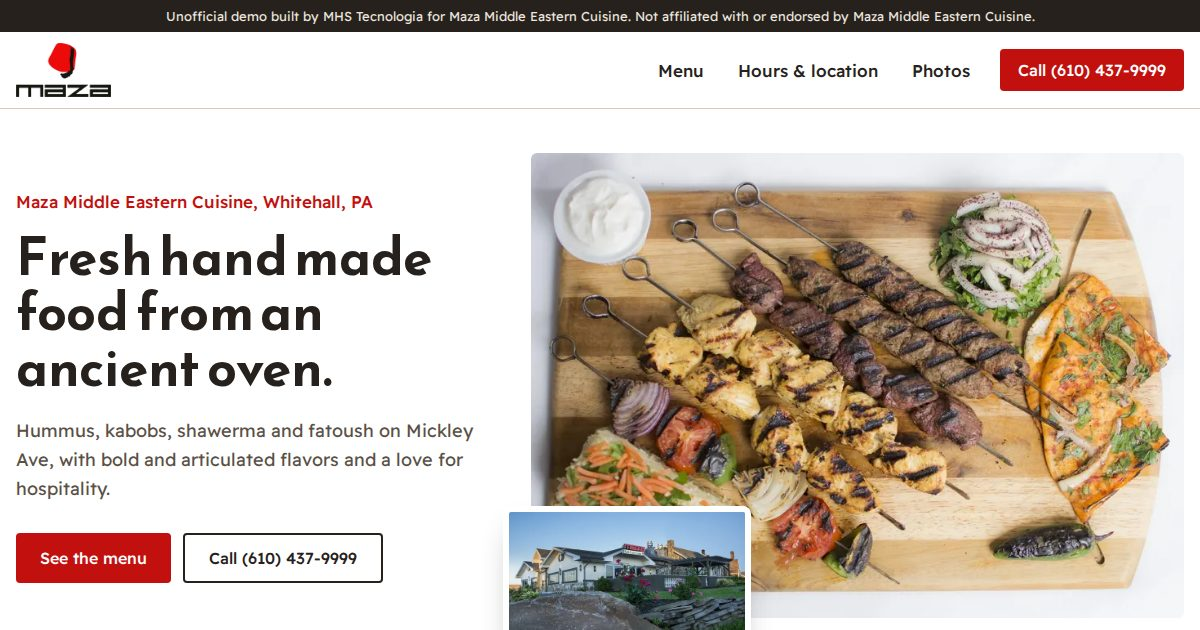
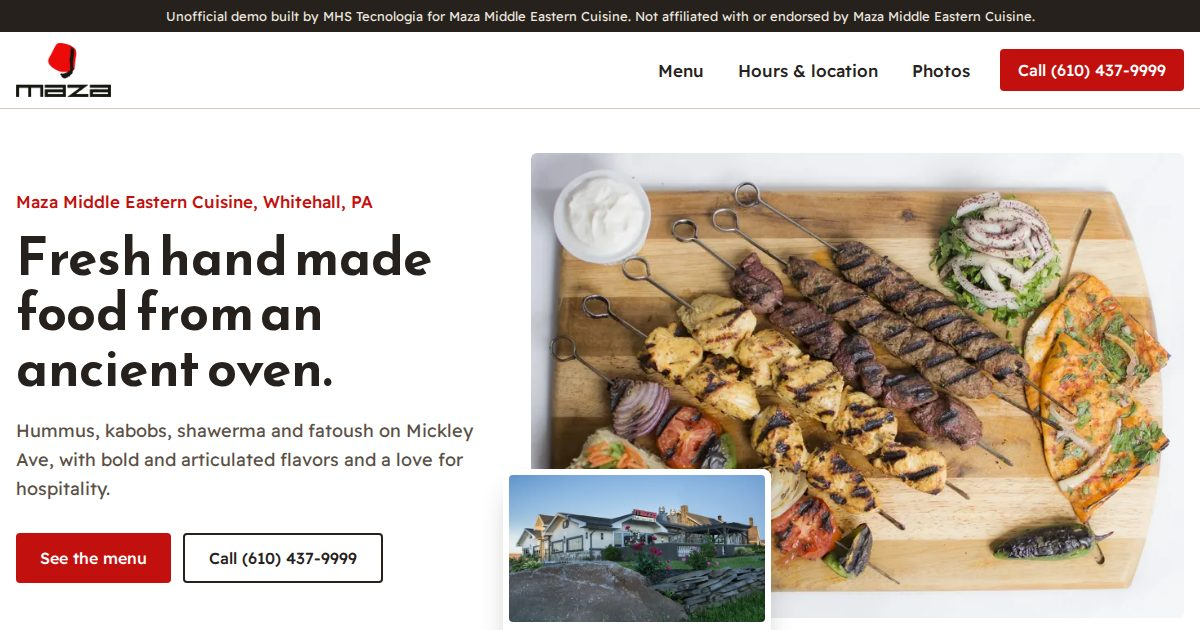
Previews: 113 ativos

Changed region(s): [[0.4008, 0.7238, 0.6475, 1.0]]

diff --git a/maza-whitehall-pa/photos.html b/maza-whitehall-pa/photos.html
@@ -63,7 +63,7 @@ figure{margin:0}
 .btn-line:hover{background:var(--ink);color:#fff}
 
 /* hero */
-.hero{padding:44px 0 80px}
+.hero{padding:44px 0 92px}
 .hero-in{display:grid;grid-template-columns:minmax(0,5fr) minmax(0,7fr);gap:48px;align-items:center}
 .kicker{color:var(--fez);font-weight:500;margin-bottom:14px}
 h1{font-size:clamp(2.5rem,4.4vw,4.1rem);max-width:13ch}
@@ -71,7 +71,9 @@ h1{font-size:clamp(2.5rem,4.4vw,4.1rem);max-width:13ch}
 .actions{display:flex;flex-wrap:wrap;gap:12px;margin-top:30px}
 .hero-photo{position:relative}
 .hero-photo img{width:100%;border-radius:6px}
-.hero-photo .inset{position:absolute;left:-28px;bottom:-36px;width:38%;border:6px solid var(--paper);border-radius:8px;box-shadow:0 14px 30px -14px rgba(38,33,28,.45)}
+.hero-photo .inset{position:absolute;left:-28px;bottom:-44px;width:41%;background:var(--paper);padding:6px 6px 0;border-radius:8px;box-shadow:0 14px 30px -14px rgba(38,33,28,.45)}
+.hero-photo .inset img{border-radius:4px}
+.inset-label{display:block;font-weight:500;font-size:.9375rem;padding:7px 4px 9px}
 
 /* the week (signature) */
 .dusk{background:var(--sand);color:var(--ink);padding:76px 0}
@@ -81,7 +83,8 @@ h1{font-size:clamp(2.5rem,4.4vw,4.1rem);max-width:13ch}
 .dusk-photo img{border-radius:6px;width:100%}
 .dusk-photo figcaption{font-size:.875rem;color:var(--muted);margin-top:10px}
 .week{margin-top:34px}
-.status{text-wrap:balance;font:700 1.375rem/1.3 var(--k);color:var(--ink);min-height:1.8em;margin-bottom:14px}
+.status{text-wrap:balance;font:700 1.375rem/1.3 var(--k);color:var(--ink);min-height:1.8em;margin-bottom:12px}
+.week-call{margin:0 0 24px}
 .week.open .status{color:var(--fez-d)}
 .axis,.day{display:grid;grid-template-columns:7.5rem minmax(0,1fr) 9.5rem;gap:20px;align-items:center}
 .ticks{position:relative;height:20px;font-size:.75rem;color:var(--muted)}
@@ -107,6 +110,18 @@ h1{font-size:clamp(2.5rem,4.4vw,4.1rem);max-width:13ch}
 }
 @keyframes grow{from{transform:scaleX(0)}}
 @keyframes fade{from{opacity:0}}
+
+/* the dishes named Maza */
+.house{background:var(--ink);color:#f3ece2;padding:76px 0}
+.house h2{font-size:clamp(2rem,3.6vw,3rem);color:#fff}
+.house .sub{color:#cbbfae}
+.house-list{list-style:none;margin:34px 0 0;padding:0}
+.house-list li{display:grid;grid-template-columns:minmax(0,5fr) minmax(0,5fr) 6rem;gap:32px;align-items:baseline;padding:22px 0;border-top:1px solid rgba(255,255,255,.16)}
+.hn{font:700 clamp(1.8rem,3.2vw,2.75rem)/1.1 var(--k);color:#fff}
+.hm{color:var(--sand)}
+.hd{color:#ddd3c6}
+.hs{display:block;font-size:.875rem;color:#b3a591;margin-top:4px}
+.hp{font:700 1.375rem/1.2 var(--k);color:#fff;text-align:right;font-variant-numeric:tabular-nums}
 
 /* menu lists */
 .items{list-style:none;margin:0;padding:0}
@@ -207,6 +222,10 @@ h1{font-size:clamp(2.5rem,4.4vw,4.1rem);max-width:13ch}
   .actions .btn{padding:0 10px;min-height:48px}
   .hero-photo{margin-top:22px}
   .dusk{padding:52px 0}
+  .house{padding:52px 0}
+  .house-list li{grid-template-columns:minmax(0,1fr) auto;gap:6px 16px;padding:18px 0}
+  .hd{grid-column:1/-1;grid-row:2}
+  .week-call{width:100%}
   .dusk-in{display:block}
   .dusk-photo{margin-top:36px}
   .axis,.day{grid-template-columns:minmax(0,1fr) auto;gap:6px 12px}
@@ -254,7 +273,7 @@ h1{font-size:clamp(2.5rem,4.4vw,4.1rem);max-width:13ch}
   <h1>Photos</h1>
   <p class="sub">The building, the patio and plates from the kitchen, all from Maza’s own gallery.</p>
 </div>
-<div class="wrap gallery"><section class="gsec" aria-label="The place"><h2>The place</h2><div class="grid place"><figure class="g"><img src="img/outside-600.webp" srcset="img/outside-600.webp 600w, img/outside-800.webp 800w, img/outside-1400.webp 1400w, img/outside-1600.webp 1600w" sizes="(max-width: 760px) calc(100vw - 32px), 770px" width="1600" height="917" alt="The Maza building on Mickley Ave, with the red Maza sign" loading="lazy" decoding="async"><figcaption>Mickley Ave, Whitehall</figcaption></figure><figure class="g tall"><img src="img/patio-440.webp" srcset="img/patio-440.webp 440w, img/patio-660.webp 660w, img/patio-880.webp 880w" sizes="(max-width: 760px) calc(100vw - 32px), 440px" width="880" height="1280" alt="The patio under the pergola at dusk, tables beside the stone wall" loading="lazy" decoding="async"><figcaption>The patio</figcaption></figure></div></section><section class="gsec" aria-label="From the kitchen"><h2>From the kitchen</h2><div class="grid"><figure class="g"><img src="img/hummus-600.webp" srcset="img/hummus-600.webp 600w, img/hummus-800.webp 800w, img/hummus-1200.webp 1200w" sizes="(max-width: 760px) calc(100vw - 32px), 604px" width="1200" height="1005" alt="A bowl of hummus with whole chickpeas, olive oil, lemon and an olive" loading="lazy" decoding="async"><figcaption>Hummus</figcaption></figure><figure class="g"><img src="img/chicken-fattoush-600.webp" srcset="img/chicken-fattoush-600.webp 600w, img/chicken-fattoush-800.webp 800w, img/chicken-fattoush-1200.webp 1200w" sizes="(max-width: 760px) calc(100vw - 32px), 604px" width="1200" height="991" alt="Grilled chicken over salad with pita chips" loading="lazy" decoding="async"><figcaption>Chicken Fatoush</figcaption></figure><figure class="g"><img src="img/tabouleh-600.webp" srcset="img/tabouleh-600.webp 600w, img/tabouleh-800.webp 800w, img/tabouleh-1200.webp 1200w" sizes="(max-width: 760px) calc(100vw - 32px), 604px" width="1200" height="1031" alt="Tabouleh on romaine leaves, seen from above" loading="lazy" decoding="async"><figcaption>Tabouleh</figcaption></figure><figure class="g"><img src="img/wrap-600.webp" srcset="img/wrap-600.webp 600w, img/wrap-800.webp 800w, img/wrap-1200.webp 1200w" sizes="(max-width: 760px) calc(100vw - 32px), 604px" width="1200" height="795" alt="A grilled wrap, cut open" loading="lazy" decoding="async"></figure><figure class="g"><img src="img/dip-600.webp" srcset="img/dip-600.webp 600w, img/dip-800.webp 800w, img/dip-1200.webp 1200w" sizes="(max-width: 760px) calc(100vw - 32px), 604px" width="1200" height="1011" alt="A dip with chopped tomato, lemon and an olive" loading="lazy" decoding="async"></figure><figure class="g"><img src="img/fried-600.webp" srcset="img/fried-600.webp 600w, img/fried-800.webp 800w, img/fried-1200.webp 1200w" sizes="(max-width: 760px) calc(100vw - 32px), 604px" width="1200" height="1097" alt="Four fried, round appetizers on a white plate" loading="lazy" decoding="async"></figure><figure class="g"><img src="img/fattoush-600.webp" srcset="img/fattoush-600.webp 600w, img/fattoush-800.webp 800w, img/fattoush-1200.webp 1200w" sizes="(max-width: 760px) calc(100vw - 32px), 604px" width="1200" height="625" alt="A salad of greens, tomato and pita chips" loading="lazy" decoding="async"></figure><figure class="g"><img src="img/grill-plate-600.webp" srcset="img/grill-plate-600.webp 600w, img/grill-plate-800.webp 800w, img/grill-plate-1200.webp 1200w" sizes="(max-width: 760px) calc(100vw - 32px), 604px" width="1200" height="644" alt="Grilled flatbread, grilled meat and a grilled tomato and pepper skewer" loading="lazy" decoding="async"></figure><figure class="g"><img src="img/wrap-side-600.webp" srcset="img/wrap-side-600.webp 600w, img/wrap-side-800.webp 800w, img/wrap-side-1200.webp 1200w" sizes="(max-width: 760px) calc(100vw - 32px), 604px" width="1200" height="900" alt="A wrap with a cup of chickpeas on the side" loading="lazy" decoding="async"></figure></div></section></div>
+<div class="wrap gallery"><section class="gsec" aria-label="The place"><h2>The place</h2><div class="grid place"><figure class="g"><img src="img/outside-600.webp" srcset="img/outside-600.webp 600w, img/outside-800.webp 800w, img/outside-1400.webp 1400w, img/outside-1600.webp 1600w" sizes="(max-width: 760px) calc(100vw - 32px), 770px" width="1600" height="917" alt="The Maza building on Mickley Ave, with the red Maza sign" loading="lazy" decoding="async"><figcaption>Mickley Ave, Whitehall</figcaption></figure><figure class="g tall"><img src="img/patio-440.webp" srcset="img/patio-440.webp 440w, img/patio-660.webp 660w, img/patio-880.webp 880w" sizes="(max-width: 760px) calc(100vw - 32px), 440px" width="880" height="1280" alt="The patio under the pergola at dusk, tables beside the stone wall" loading="lazy" decoding="async"><figcaption>The patio</figcaption></figure></div></section><section class="gsec" aria-label="From the kitchen"><h2>From the kitchen</h2><div class="grid"><figure class="g"><img src="img/hummus-600.webp" srcset="img/hummus-600.webp 600w, img/hummus-800.webp 800w, img/hummus-1200.webp 1200w" sizes="(max-width: 760px) calc(100vw - 32px), 604px" width="1200" height="1005" alt="A bowl of hummus with whole chickpeas, olive oil, lemon and an olive" loading="lazy" decoding="async"></figure><figure class="g"><img src="img/chicken-fattoush-600.webp" srcset="img/chicken-fattoush-600.webp 600w, img/chicken-fattoush-800.webp 800w, img/chicken-fattoush-1200.webp 1200w" sizes="(max-width: 760px) calc(100vw - 32px), 604px" width="1200" height="991" alt="Grilled chicken over salad with pita chips" loading="lazy" decoding="async"></figure><figure class="g"><img src="img/tabouleh-600.webp" srcset="img/tabouleh-600.webp 600w, img/tabouleh-800.webp 800w, img/tabouleh-1200.webp 1200w" sizes="(max-width: 760px) calc(100vw - 32px), 604px" width="1200" height="1031" alt="Tabouleh on romaine leaves, seen from above" loading="lazy" decoding="async"></figure><figure class="g"><img src="img/wrap-600.webp" srcset="img/wrap-600.webp 600w, img/wrap-800.webp 800w, img/wrap-1200.webp 1200w" sizes="(max-width: 760px) calc(100vw - 32px), 604px" width="1200" height="795" alt="A grilled wrap, cut open" loading="lazy" decoding="async"></figure><figure class="g"><img src="img/dip-600.webp" srcset="img/dip-600.webp 600w, img/dip-800.webp 800w, img/dip-1200.webp 1200w" sizes="(max-width: 760px) calc(100vw - 32px), 604px" width="1200" height="1011" alt="A dip with chopped tomato, lemon and an olive" loading="lazy" decoding="async"></figure><figure class="g"><img src="img/fried-600.webp" srcset="img/fried-600.webp 600w, img/fried-800.webp 800w, img/fried-1200.webp 1200w" sizes="(max-width: 760px) calc(100vw - 32px), 604px" width="1200" height="1097" alt="Four fried, round appetizers on a white plate" loading="lazy" decoding="async"></figure><figure class="g"><img src="img/fattoush-600.webp" srcset="img/fattoush-600.webp 600w, img/fattoush-800.webp 800w, img/fattoush-1200.webp 1200w" sizes="(max-width: 760px) calc(100vw - 32px), 604px" width="1200" height="625" alt="A salad of greens, tomato and pita chips" loading="lazy" decoding="async"></figure><figure class="g"><img src="img/grill-plate-600.webp" srcset="img/grill-plate-600.webp 600w, img/grill-plate-800.webp 800w, img/grill-plate-1200.webp 1200w" sizes="(max-width: 760px) calc(100vw - 32px), 604px" width="1200" height="644" alt="Grilled flatbread, grilled meat and a grilled tomato and pepper skewer" loading="lazy" decoding="async"></figure><figure class="g"><img src="img/wrap-side-600.webp" srcset="img/wrap-side-600.webp 600w, img/wrap-side-800.webp 800w, img/wrap-side-1200.webp 1200w" sizes="(max-width: 760px) calc(100vw - 32px), 604px" width="1200" height="900" alt="A wrap with a cup of chickpeas on the side" loading="lazy" decoding="async"></figure></div></section></div>
 </main>
 <footer class="foot">
   <div class="wrap foot-in">

diff --git a/maza-whitehall-pa/index.html b/maza-whitehall-pa/index.html
@@ -65,7 +65,7 @@ figure{margin:0}
 .btn-line:hover{background:var(--ink);color:#fff}
 
 /* hero */
-.hero{padding:44px 0 80px}
+.hero{padding:44px 0 92px}
 .hero-in{display:grid;grid-template-columns:minmax(0,5fr) minmax(0,7fr);gap:48px;align-items:center}
 .kicker{color:var(--fez);font-weight:500;margin-bottom:14px}
 h1{font-size:clamp(2.5rem,4.4vw,4.1rem);max-width:13ch}
@@ -73,7 +73,9 @@ h1{font-size:clamp(2.5rem,4.4vw,4.1rem);max-width:13ch}
 .actions{display:flex;flex-wrap:wrap;gap:12px;margin-top:30px}
 .hero-photo{position:relative}
 .hero-photo img{width:100%;border-radius:6px}
-.hero-photo .inset{position:absolute;left:-28px;bottom:-36px;width:38%;border:6px solid var(--paper);border-radius:8px;box-shadow:0 14px 30px -14px rgba(38,33,28,.45)}
+.hero-photo .inset{position:absolute;left:-28px;bottom:-44px;width:41%;background:var(--paper);padding:6px 6px 0;border-radius:8px;box-shadow:0 14px 30px -14px rgba(38,33,28,.45)}
+.hero-photo .inset img{border-radius:4px}
+.inset-label{display:block;font-weight:500;font-size:.9375rem;padding:7px 4px 9px}
 
 /* the week (signature) */
 .dusk{background:var(--sand);color:var(--ink);padding:76px 0}
@@ -83,7 +85,8 @@ h1{font-size:clamp(2.5rem,4.4vw,4.1rem);max-width:13ch}
 .dusk-photo img{border-radius:6px;width:100%}
 .dusk-photo figcaption{font-size:.875rem;color:var(--muted);margin-top:10px}
 .week{margin-top:34px}
-.status{text-wrap:balance;font:700 1.375rem/1.3 var(--k);color:var(--ink);min-height:1.8em;margin-bottom:14px}
+.status{text-wrap:balance;font:700 1.375rem/1.3 var(--k);color:var(--ink);min-height:1.8em;margin-bottom:12px}
+.week-call{margin:0 0 24px}
 .week.open .status{color:var(--fez-d)}
 .axis,.day{display:grid;grid-template-columns:7.5rem minmax(0,1fr) 9.5rem;gap:20px;align-items:center}
 .ticks{position:relative;height:20px;font-size:.75rem;color:var(--muted)}
@@ -109,6 +112,18 @@ h1{font-size:clamp(2.5rem,4.4vw,4.1rem);max-width:13ch}
 }
 @keyframes grow{from{transform:scaleX(0)}}
 @keyframes fade{from{opacity:0}}
+
+/* the dishes named Maza */
+.house{background:var(--ink);color:#f3ece2;padding:76px 0}
+.house h2{font-size:clamp(2rem,3.6vw,3rem);color:#fff}
+.house .sub{color:#cbbfae}
+.house-list{list-style:none;margin:34px 0 0;padding:0}
+.house-list li{display:grid;grid-template-columns:minmax(0,5fr) minmax(0,5fr) 6rem;gap:32px;align-items:baseline;padding:22px 0;border-top:1px solid rgba(255,255,255,.16)}
+.hn{font:700 clamp(1.8rem,3.2vw,2.75rem)/1.1 var(--k);color:#fff}
+.hm{color:var(--sand)}
+.hd{color:#ddd3c6}
+.hs{display:block;font-size:.875rem;color:#b3a591;margin-top:4px}
+.hp{font:700 1.375rem/1.2 var(--k);color:#fff;text-align:right;font-variant-numeric:tabular-nums}
 
 /* menu lists */
 .items{list-style:none;margin:0;padding:0}
@@ -209,6 +224,10 @@ h1{font-size:clamp(2.5rem,4.4vw,4.1rem);max-width:13ch}
   .actions .btn{padding:0 10px;min-height:48px}
   .hero-photo{margin-top:22px}
   .dusk{padding:52px 0}
+  .house{padding:52px 0}
+  .house-list li{grid-template-columns:minmax(0,1fr) auto;gap:6px 16px;padding:18px 0}
+  .hd{grid-column:1/-1;grid-row:2}
+  .week-call{width:100%}
   .dusk-in{display:block}
   .dusk-photo{margin-top:36px}
   .axis,.day{grid-template-columns:minmax(0,1fr) auto;gap:6px 12px}
@@ -275,8 +294,16 @@ h1{font-size:clamp(2.5rem,4.4vw,4.1rem);max-width:13ch}
         <source media="(max-width: 760px)" srcset="img/board-m-480.webp 480w, img/board-m-640.webp 640w, img/board-m-800.webp 800w" sizes="calc(100vw - 32px)" width="800" height="600">
         <img src="img/board-800.webp" srcset="img/board-800.webp 800w, img/board-1200.webp 1200w, img/board-1600.webp 1600w" sizes="min(56vw, 700px)" width="1600" height="1138" alt="Grilled skewers of chicken, kufta and beef on a wooden board with rice, grilled vegetables and flatbread" fetchpriority="high">
       </picture>
-      <img src="img/outside-600.webp" srcset="img/outside-600.webp 600w" sizes="260px" width="1400" height="802" alt="The Maza building on Mickley Ave, with its red sign" loading="lazy" decoding="async" class='inset'>
+      <span class="inset"><img src="img/outside-600.webp" srcset="img/outside-600.webp 600w" sizes="300px" width="1400" height="802" alt="The Maza building on Mickley Ave, with its red sign" loading="lazy" decoding="async"><span class="inset-label">On Mickley Ave</span></span>
     </figure>
+  </div>
+</section>
+
+<section class="house" aria-labelledby="house-h">
+  <div class="wrap">
+    <h2 id="house-h">Five dishes carry the house name</h2>
+    <p class="sub">Straight from Maza’s menu, with their prices.</p>
+    <ol class="house-list"><li><span class="hn"><span class="hm">Maza</span> Lebne</span><span class="hd">A yogurt spread mixed with onions, walnuts &amp; cracked wheat.<span class="hs"> Cold appetizers</span></span><span class="hp">$9.99</span></li><li><span class="hn"><span class="hm">Maza</span> Sampler</span><span class="hd">Hummus, baba ghanouj, burak and sambousik.<span class="hs"> Cold appetizers</span></span><span class="hp">$20.99</span></li><li><span class="hn"><span class="hm">Maza</span> Special Chicken</span><span class="hd">Chicken, French fries, coleslaw, ketchup &amp; pickles.<span class="hs"> Sandwiches</span></span><span class="hp">$14.99</span></li><li><span class="hn"><span class="hm">Maza</span> Vegetarian</span><span class="hd">Fatoush &amp; hummus.<span class="hs"> Sandwiches</span></span><span class="hp">$9.99</span></li><li><span class="hn"><span class="hm">Maza</span> From the Grill</span><span class="hd">Chicken, kufta and beef kabob.<span class="hs"> Entrees</span></span><span class="hp">$42.99</span></li></ol>
   </div>
 </section>
 
@@ -287,6 +314,7 @@ h1{font-size:clamp(2.5rem,4.4vw,4.1rem);max-width:13ch}
       <p class="sub">Till 11 most nights, 11:30 on Fridays and midnight on Saturdays. Closed on Tuesdays.</p>
       <div class="week" aria-labelledby="week-h">
   <p class="status" aria-live="polite"></p>
+  <a class="btn btn-red week-call" href="tel:+16104379999">Call (610) 437-9999</a>
   <div class="axis" aria-hidden="true"><span></span><span class="ticks"><span style="left:0.000%">11 am</span><span style="left:23.077%">2 pm</span><span style="left:46.154%">5 pm</span><span style="left:69.231%">8 pm</span><span style="left:100.000%">midnight</span></span><span></span></div>
   <ol class="days"><li class="day" data-d="0" data-o=11 data-c=23><span class="dn">Monday</span><span class="track" aria-hidden="true"><span class="fill" style="left:0.000%;width:92.308%"></span><span class="now"></span></span><span class="tm">11 am – 11 pm</span></li><li class="day closed" data-d="1"><span class="dn">Tuesday</span><span class="track" aria-hidden="true"><span class="shut"></span><span class="now"></span></span><span class="tm">Closed</span></li><li class="day" data-d="2" data-o=11 data-c=23><span class="dn">Wednesday</span><span class="track" aria-hidden="true"><span class="fill" style="left:0.000%;width:92.308%"></span><span class="now"></span></span><span class="tm">11 am – 11 pm</span></li><li class="day" data-d="3" data-o=11 data-c=23><span class="dn">Thursday</span><span class="track" aria-hidden="true"><span class="fill" style="left:0.000%;width:92.308%"></span><span class="now"></span></span><span class="tm">11 am – 11 pm</span></li><li class="day" data-d="4" data-o=11 data-c=23.5><span class="dn">Friday</span><span class="track" aria-hidden="true"><span class="fill" style="left:0.000%;width:96.154%"></span><span class="now"></span></span><span class="tm">11 am – 11:30 pm</span></li><li class="day" data-d="5" data-o=12 data-c=24><span class="dn">Saturday</span><span class="track" aria-hidden="true"><span class="fill" style="left:7.692%;width:92.308%"></span><span class="now"></span></span><span class="tm">Noon – midnight</span></li><li class="day" data-d="6" data-o=12 data-c=23><span class="dn">Sunday</span><span class="track" aria-hidden="true"><span class="fill" style="left:7.692%;width:84.615%"></span><span class="now"></span></span><span class="tm">Noon – 11 pm</span></li></ol>
   <p class="week-note">Going by the hours posted on Maza’s website, in Whitehall time.</p>

diff --git a/maza-whitehall-pa/visit.html b/maza-whitehall-pa/visit.html
@@ -63,7 +63,7 @@ figure{margin:0}
 .btn-line:hover{background:var(--ink);color:#fff}
 
 /* hero */
-.hero{padding:44px 0 80px}
+.hero{padding:44px 0 92px}
 .hero-in{display:grid;grid-template-columns:minmax(0,5fr) minmax(0,7fr);gap:48px;align-items:center}
 .kicker{color:var(--fez);font-weight:500;margin-bottom:14px}
 h1{font-size:clamp(2.5rem,4.4vw,4.1rem);max-width:13ch}
@@ -71,7 +71,9 @@ h1{font-size:clamp(2.5rem,4.4vw,4.1rem);max-width:13ch}
 .actions{display:flex;flex-wrap:wrap;gap:12px;margin-top:30px}
 .hero-photo{position:relative}
 .hero-photo img{width:100%;border-radius:6px}
-.hero-photo .inset{position:absolute;left:-28px;bottom:-36px;width:38%;border:6px solid var(--paper);border-radius:8px;box-shadow:0 14px 30px -14px rgba(38,33,28,.45)}
+.hero-photo .inset{position:absolute;left:-28px;bottom:-44px;width:41%;background:var(--paper);padding:6px 6px 0;border-radius:8px;box-shadow:0 14px 30px -14px rgba(38,33,28,.45)}
+.hero-photo .inset img{border-radius:4px}
+.inset-label{display:block;font-weight:500;font-size:.9375rem;padding:7px 4px 9px}
 
 /* the week (signature) */
 .dusk{background:var(--sand);color:var(--ink);padding:76px 0}
@@ -81,7 +83,8 @@ h1{font-size:clamp(2.5rem,4.4vw,4.1rem);max-width:13ch}
 .dusk-photo img{border-radius:6px;width:100%}
 .dusk-photo figcaption{font-size:.875rem;color:var(--muted);margin-top:10px}
 .week{margin-top:34px}
-.status{text-wrap:balance;font:700 1.375rem/1.3 var(--k);color:var(--ink);min-height:1.8em;margin-bottom:14px}
+.status{text-wrap:balance;font:700 1.375rem/1.3 var(--k);color:var(--ink);min-height:1.8em;margin-bottom:12px}
+.week-call{margin:0 0 24px}
 .week.open .status{color:var(--fez-d)}
 .axis,.day{display:grid;grid-template-columns:7.5rem minmax(0,1fr) 9.5rem;gap:20px;align-items:center}
 .ticks{position:relative;height:20px;font-size:.75rem;color:var(--muted)}
@@ -107,6 +110,18 @@ h1{font-size:clamp(2.5rem,4.4vw,4.1rem);max-width:13ch}
 }
 @keyframes grow{from{transform:scaleX(0)}}
 @keyframes fade{from{opacity:0}}
+
+/* the dishes named Maza */
+.house{background:var(--ink);color:#f3ece2;padding:76px 0}
+.house h2{font-size:clamp(2rem,3.6vw,3rem);color:#fff}
+.house .sub{color:#cbbfae}
+.house-list{list-style:none;margin:34px 0 0;padding:0}
+.house-list li{display:grid;grid-template-columns:minmax(0,5fr) minmax(0,5fr) 6rem;gap:32px;align-items:baseline;padding:22px 0;border-top:1px solid rgba(255,255,255,.16)}
+.hn{font:700 clamp(1.8rem,3.2vw,2.75rem)/1.1 var(--k);color:#fff}
+.hm{color:var(--sand)}
+.hd{color:#ddd3c6}
+.hs{display:block;font-size:.875rem;color:#b3a591;margin-top:4px}
+.hp{font:700 1.375rem/1.2 var(--k);color:#fff;text-align:right;font-variant-numeric:tabular-nums}
 
 /* menu lists */
 .items{list-style:none;margin:0;padding:0}
@@ -207,6 +222,10 @@ h1{font-size:clamp(2.5rem,4.4vw,4.1rem);max-width:13ch}
   .actions .btn{padding:0 10px;min-height:48px}
   .hero-photo{margin-top:22px}
   .dusk{padding:52px 0}
+  .house{padding:52px 0}
+  .house-list li{grid-template-columns:minmax(0,1fr) auto;gap:6px 16px;padding:18px 0}
+  .hd{grid-column:1/-1;grid-row:2}
+  .week-call{width:100%}
   .dusk-in{display:block}
   .dusk-photo{margin-top:36px}
   .axis,.day{grid-template-columns:minmax(0,1fr) auto;gap:6px 12px}
@@ -259,6 +278,7 @@ h1{font-size:clamp(2.5rem,4.4vw,4.1rem);max-width:13ch}
     <h2 id="wk-h">The week at Maza</h2>
     <div class="week" aria-labelledby="wk-h">
   <p class="status" aria-live="polite"></p>
+  <a class="btn btn-red week-call" href="tel:+16104379999">Call (610) 437-9999</a>
   <div class="axis" aria-hidden="true"><span></span><span class="ticks"><span style="left:0.000%">11 am</span><span style="left:23.077%">2 pm</span><span style="left:46.154%">5 pm</span><span style="left:69.231%">8 pm</span><span style="left:100.000%">midnight</span></span><span></span></div>
   <ol class="days"><li class="day" data-d="0" data-o=11 data-c=23><span class="dn">Monday</span><span class="track" aria-hidden="true"><span class="fill" style="left:0.000%;width:92.308%"></span><span class="now"></span></span><span class="tm">11 am – 11 pm</span></li><li class="day closed" data-d="1"><span class="dn">Tuesday</span><span class="track" aria-hidden="true"><span class="shut"></span><span class="now"></span></span><span class="tm">Closed</span></li><li class="day" data-d="2" data-o=11 data-c=23><span class="dn">Wednesday</span><span class="track" aria-hidden="true"><span class="fill" style="left:0.000%;width:92.308%"></span><span class="now"></span></span><span class="tm">11 am – 11 pm</span></li><li class="day" data-d="3" data-o=11 data-c=23><span class="dn">Thursday</span><span class="track" aria-hidden="true"><span class="fill" style="left:0.000%;width:92.308%"></span><span class="now"></span></span><span class="tm">11 am – 11 pm</span></li><li class="day" data-d="4" data-o=11 data-c=23.5><span class="dn">Friday</span><span class="track" aria-hidden="true"><span class="fill" style="left:0.000%;width:96.154%"></span><span class="now"></span></span><span class="tm">11 am – 11:30 pm</span></li><li class="day" data-d="5" data-o=12 data-c=24><span class="dn">Saturday</span><span class="track" aria-hidden="true"><span class="fill" style="left:7.692%;width:92.308%"></span><span class="now"></span></span><span class="tm">Noon – midnight</span></li><li class="day" data-d="6" data-o=12 data-c=23><span class="dn">Sunday</span><span class="track" aria-hidden="true"><span class="fill" style="left:7.692%;width:84.615%"></span><span class="now"></span></span><span class="tm">Noon – 11 pm</span></li></ol>
   <p class="week-note">Going by the hours posted on Maza’s website, in Whitehall time.</p>

diff --git a/maza-whitehall-pa/menu.html b/maza-whitehall-pa/menu.html
@@ -63,7 +63,7 @@ figure{margin:0}
 .btn-line:hover{background:var(--ink);color:#fff}
 
 /* hero */
-.hero{padding:44px 0 80px}
+.hero{padding:44px 0 92px}
 .hero-in{display:grid;grid-template-columns:minmax(0,5fr) minmax(0,7fr);gap:48px;align-items:center}
 .kicker{color:var(--fez);font-weight:500;margin-bottom:14px}
 h1{font-size:clamp(2.5rem,4.4vw,4.1rem);max-width:13ch}
@@ -71,7 +71,9 @@ h1{font-size:clamp(2.5rem,4.4vw,4.1rem);max-width:13ch}
 .actions{display:flex;flex-wrap:wrap;gap:12px;margin-top:30px}
 .hero-photo{position:relative}
 .hero-photo img{width:100%;border-radius:6px}
-.hero-photo .inset{position:absolute;left:-28px;bottom:-36px;width:38%;border:6px solid var(--paper);border-radius:8px;box-shadow:0 14px 30px -14px rgba(38,33,28,.45)}
+.hero-photo .inset{position:absolute;left:-28px;bottom:-44px;width:41%;background:var(--paper);padding:6px 6px 0;border-radius:8px;box-shadow:0 14px 30px -14px rgba(38,33,28,.45)}
+.hero-photo .inset img{border-radius:4px}
+.inset-label{display:block;font-weight:500;font-size:.9375rem;padding:7px 4px 9px}
 
 /* the week (signature) */
 .dusk{background:var(--sand);color:var(--ink);padding:76px 0}
@@ -81,7 +83,8 @@ h1{font-size:clamp(2.5rem,4.4vw,4.1rem);max-width:13ch}
 .dusk-photo img{border-radius:6px;width:100%}
 .dusk-photo figcaption{font-size:.875rem;color:var(--muted);margin-top:10px}
 .week{margin-top:34px}
-.status{text-wrap:balance;font:700 1.375rem/1.3 var(--k);color:var(--ink);min-height:1.8em;margin-bottom:14px}
+.status{text-wrap:balance;font:700 1.375rem/1.3 var(--k);color:var(--ink);min-height:1.8em;margin-bottom:12px}
+.week-call{margin:0 0 24px}
 .week.open .status{color:var(--fez-d)}
 .axis,.day{display:grid;grid-template-columns:7.5rem minmax(0,1fr) 9.5rem;gap:20px;align-items:center}
 .ticks{position:relative;height:20px;font-size:.75rem;color:var(--muted)}
@@ -107,6 +110,18 @@ h1{font-size:clamp(2.5rem,4.4vw,4.1rem);max-width:13ch}
 }
 @keyframes grow{from{transform:scaleX(0)}}
 @keyframes fade{from{opacity:0}}
+
+/* the dishes named Maza */
+.house{background:var(--ink);color:#f3ece2;padding:76px 0}
+.house h2{font-size:clamp(2rem,3.6vw,3rem);color:#fff}
+.house .sub{color:#cbbfae}
+.house-list{list-style:none;margin:34px 0 0;padding:0}
+.house-list li{display:grid;grid-template-columns:minmax(0,5fr) minmax(0,5fr) 6rem;gap:32px;align-items:baseline;padding:22px 0;border-top:1px solid rgba(255,255,255,.16)}
+.hn{font:700 clamp(1.8rem,3.2vw,2.75rem)/1.1 var(--k);color:#fff}
+.hm{color:var(--sand)}
+.hd{color:#ddd3c6}
+.hs{display:block;font-size:.875rem;color:#b3a591;margin-top:4px}
+.hp{font:700 1.375rem/1.2 var(--k);color:#fff;text-align:right;font-variant-numeric:tabular-nums}
 
 /* menu lists */
 .items{list-style:none;margin:0;padding:0}
@@ -207,6 +222,10 @@ h1{font-size:clamp(2.5rem,4.4vw,4.1rem);max-width:13ch}
   .actions .btn{padding:0 10px;min-height:48px}
   .hero-photo{margin-top:22px}
   .dusk{padding:52px 0}
+  .house{padding:52px 0}
+  .house-list li{grid-template-columns:minmax(0,1fr) auto;gap:6px 16px;padding:18px 0}
+  .hd{grid-column:1/-1;grid-row:2}
+  .week-call{width:100%}
   .dusk-in{display:block}
   .dusk-photo{margin-top:36px}
   .axis,.day{grid-template-columns:minmax(0,1fr) auto;gap:6px 12px}
